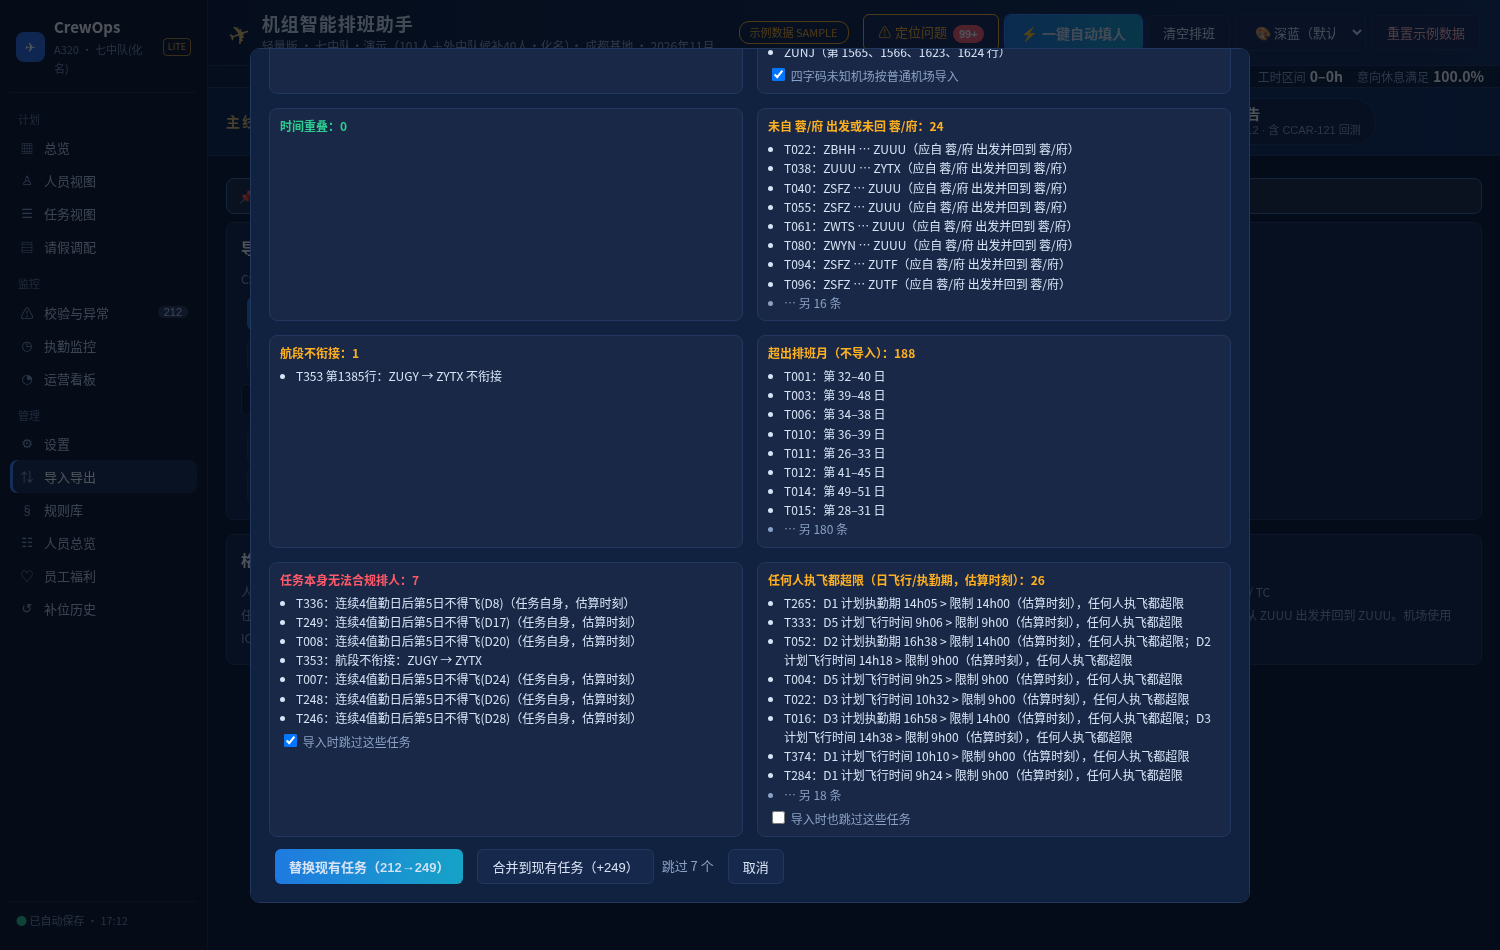
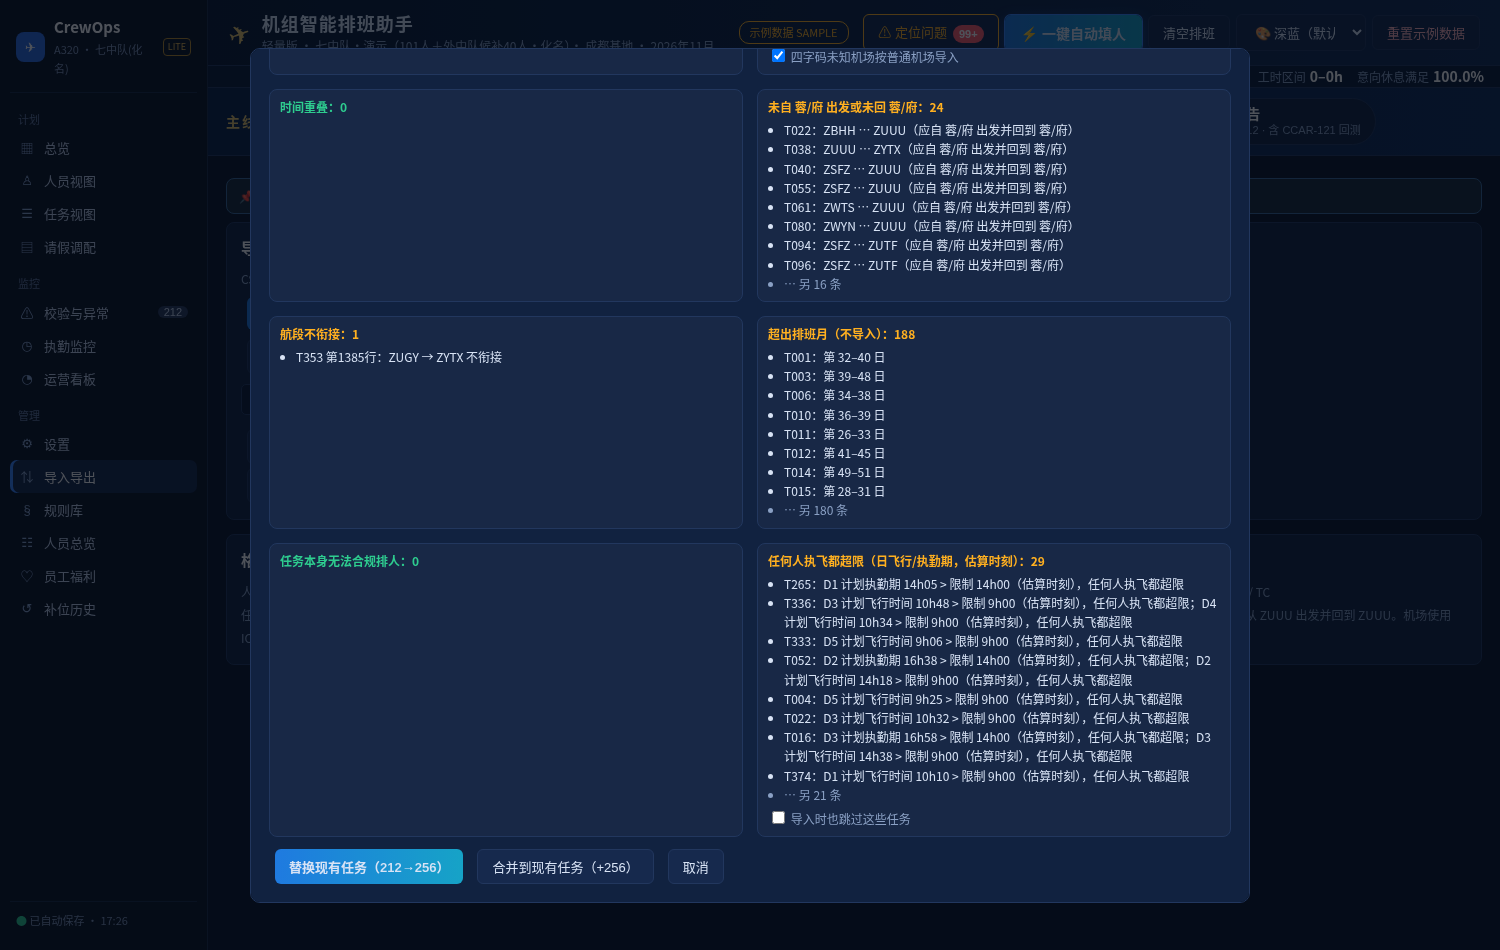
121.495(b)/EU.COM 3.6.10 2) 第5日规则按原文口径：仅第5日执飞航段违规，置位(随)回基地/跨日落地不算；航段不衔接改为提示；测试与回测报告补充；v=631

diff --git a/js/core.js b/js/core.js
@@ -1335,12 +1335,14 @@
     // 2) 任一飞行日：若前 4 个日历日均为飞行值勤或主备份，则违规
     const flags = dutyDayFlags(p, st, idx, ex, extra);
     const flew = Array(DAYS + 2).fill(false);
-    allPr.forEach(o => daysTouched(o, st).forEach(d => { if (d >= 1 && d <= DAYS) flew[d] = true; }));
+    // CCAR-121.495(b) / EU.COM 3.6.10 2)：值勤+主备份达 4 个连续日历日后，第 5 个日历日不得「执行任何飞行任务」。
+    // 第 5 日只看执飞航段（置位(随)回基地不是飞行任务；前日航班落地/放行跨入当日也不算当日执行飞行任务）
+    allPr.forEach(o => o.legs.forEach(l => { if (l.dh) return; const a = Math.floor(l.dep / DAY) + 1, b = Math.floor((l.arr - 1) / DAY) + 1; for (let d = a; d <= b; d++) if (d >= 1 && d <= DAYS) flew[d] = true; }));
     for (let d = 1; d <= DAYS; d++) {
       if (!flew[d]) continue;
       let prior4 = true;
       for (let k = 1; k <= 4; k++) { const dd = d - k; if (dd < 1 || !flags[dd]) { prior4 = false; break; } }
-      if (prior4) rs.push('连续4值勤日后第5日不得飞(D' + d + ')');
+      if (prior4) rs.push('连续4值勤日后第5日不得执飞(121.495(b),D' + d + ')');
     }
     // 3) 任意连续 7 日历日飞行值勤期 ≤60h；4) 月飞行值勤期 ≤210h
     const fdp = pilotFdpByDay(p, st, idx, ex, extra);
@@ -2943,12 +2945,12 @@
   // 任务固有问题：用“空白档案、全授权、最高级别”的虚拟人单独执行此任务，仍不合规的原因即任务自身问题
   function pairingIntrinsic(pr, st) {
     const out = [];
-    for (let i = 1; i < pr.legs.length; i++) if (pr.legs[i].from !== pr.legs[i - 1].to) out.push({ code: 'broken', msg: `航段不衔接：${pr.legs[i - 1].to} → ${pr.legs[i].from}` });
+    for (let i = 1; i < pr.legs.length; i++) if (pr.legs[i].from !== pr.legs[i - 1].to) out.push({ code: 'broken', soft: true, msg: `航段不衔接：${pr.legs[i - 1].to} → ${pr.legs[i].from}` });
     const BASE = ['ZUUU', 'ZUTF']; if (pr.legs.length && (!BASE.includes(pr.legs[0].from) || !BASE.includes(pr.legs[pr.legs.length - 1].to))) out.push({ code: 'base', msg: '未自 蓉/府 出发或未回到 蓉/府', soft: true });
     const unk = [...new Set(pr.legs.flatMap(l => [l.from, l.to]).filter(c => !AIRPORTS[c] && !(st.airports && st.airports[c] && !/\(导入\)$/.test(st.airports[c][0]))))]; if (unk.length) out.push({ code: 'airport', msg: '未知机场：' + unk.join('、'), soft: true });
     const ds = [...new Set(pr.legs.filter(l => !l.dh).map(l => Math.floor(l.dep / DAY)))].sort((a, b) => a - b); let run = ds.length ? 1 : 0, mx = run;
     for (let i = 1; i < ds.length; i++) { run = ds[i] === ds[i - 1] + 1 ? run + 1 : 1; mx = Math.max(mx, run); }
-    if (mx >= 5) out.push({ code: 'consec', msg: `任务内连续 ${mx} 个值勤日（连续4值勤日后第5日不得飞），任何人都无法合规` });
+    if (mx >= 5) out.push({ code: 'consec', msg: `任务内连续 ${mx} 个执飞日（121.495(b) 4 个连续值勤日后第 5 日不得执飞），任何人都无法合规` });
     for (const slot of ['C', 'F']) {
       const ghost = { id: '__ghost' + slot, name: '虚拟', rank: slot === 'C' ? 'TC' : 'F5', squad: '', fleet: pr.ac === 'C909' ? 'C909' : 'A320', auth: [...new Set(pr.legs.flatMap(l => [l.from, l.to]))], prefs: [], leave: [], health: defaultHealth() };
       const gs = Object.assign({}, st, { pilots: [ghost], pairings: [Object.assign({}, pr, { crew: { C: null, F: null, T: null } })], standby: null, training: null, fills: [] });

diff --git a/test/legimport.test.js b/test/legimport.test.js
@@ -27,11 +27,12 @@ let fail = 0; const chk = (n, ok, info) => { console.log('LEGIMP ' + n, ok ? 'OK
     chk('backtest fill runs', sm.full >= 248, `满员 ${sm.full}/${sm.total} hard ${sm.hard} ${Date.now() - t0}ms`);
     // 固有问题 + 空洞诊断 + 强制指派
     const ir = LI.intrinsicReport(r, C, st); const ib = ir.filter(x => x.blocking.length), iF = ir.filter(x => x.ftl.length);
-    chk('intrinsic blocking/ftl', ib.length >= 5 && iF.length >= 20, `blocking ${ib.length} ftl ${iF.length}`);
+    chk('intrinsic blocking/ftl (no day5-deadhead false positives)', ib.length === 0 && iF.length >= 20, `blocking ${ib.length} ftl ${iF.length}`);
     const cls = {}; const holes = []; s.pairings.forEach(pr => ['C', 'F', 'T'].forEach(k => { if (!pr.crew[k]) { const d = C.holeDiagnosis(s, pr, k); cls[d.cls] = (cls[d.cls] || 0) + 1; holes.push([pr, k, d]); } }));
     chk('every hole classified', holes.every(([, , d]) => ['数据问题', '真实运力不足', '可填'].includes(d.cls) && d.why), JSON.stringify(cls));
-    const dataHoles = holes.filter(([, , d]) => d.cls === '数据问题'); chk('data holes have intrinsic reason', dataHoles.length > 0 && dataHoles.every(([, , d]) => d.intrinsic.length || /无人具备|无此座位/.test(d.why)));
-    const [hp, hk] = dataHoles[0]; const any = C.candidates(s, hp, hk).find(c => C.slotRankOK(hk, c.p.rank) && !c.ok);
+    chk('6 long outstation pairings filled', ['T336', 'T249', 'T008', 'T007', 'T248', 'T246'].every(id => { const q = s.pairings.find(x => x.id === id); return q && q.crew.C && q.crew.F; }));
+    const dataHoles = holes.filter(([, , d]) => d.cls === '数据问题'); chk('data holes have intrinsic reason', dataHoles.every(([, , d]) => d.intrinsic.length || /无人具备|无此座位/.test(d.why)));
+    const anyHole = holes[0] || (() => { const q = s.pairings[5]; q.crew.T = null; return [q, 'T']; })(); const [hp, hk] = anyHole; const any = C.candidates(s, hp, hk).find(c => C.slotRankOK(hk, c.p.rank) && !c.ok && c.reasons.length);
     C.forceAssign(s, hp.id, hk, any.p.id, 'test'); chk('force assign records flag', hp.crew[hk] === any.p.id && hp.forced[hk].reasons.length > 0 && C.validate(s).some(v => v.type === '强制指派' && v.pairing === hp.id));
     const s4 = C.generateLiteSample(20261101); const skip = new Set(ib.map(x => x.id)); LI.apply(s4, r, 'replace', C, { skip }); chk('apply skip', s4.pairings.length === 256 - skip.size, s4.pairings.length); }
   console.log(fail ? 'LEGIMP FAIL ' + fail : 'LEGIMP ALL OK'); process.exit(fail ? 1 : 0);

diff --git a/lite/index.html b/lite/index.html
@@ -5,7 +5,7 @@
 <meta name="viewport" content="width=device-width, initial-scale=1">
 <title>Demo</title>
 <meta name="robots" content="noindex,nofollow,noarchive,nosnippet">
-<link rel="stylesheet" href="../css/style.css?v=630">
+<link rel="stylesheet" href="../css/style.css?v=631">
 </head>
 <body>
 <header class="topbar">
@@ -48,24 +48,24 @@
 <div id="toast" class="toast hidden"></div>
 <script src="../js/vendor/jszip.min.js"></script>
 <script src="../js/vendor/exceljs.min.js"></script>
-<script src="../js/xlsx-gantt.js?v=630"></script>
-<script src="../js/leg-import.js?v=630"></script>
+<script src="../js/xlsx-gantt.js?v=631"></script>
+<script src="../js/leg-import.js?v=631"></script>
 <script src="../js/sample-data.js"></script>
-<script src="../js/pinyin-initials.js?v=630"></script>
+<script src="../js/pinyin-initials.js?v=631"></script>
 <script src="../js/lite-roster.js"></script>
 <script src="../js/rules-config.js"></script>
 <script src="../js/core.js"></script>
 <script src="../js/charts.js"></script>
 <script>window.ROSTER_LITE = true;</script>
-<script src="../js/app/00-base.js?v=630"></script>
-<script src="../js/app/01-dashboard.js?v=630"></script>
-<script src="../js/app/02-gantt.js?v=630"></script>
-<script src="../js/app/03-editor.js?v=630"></script>
-<script src="../js/app/04-taskview.js?v=630"></script>
-<script src="../js/app/05-ops.js?v=630"></script>
-<script src="../js/app/06-roster.js?v=630"></script>
-<script src="../js/app/07-export.js?v=630"></script>
-<script src="../js/app/08-settings.js?v=630"></script>
-<script src="../js/app/09-main.js?v=630"></script>
+<script src="../js/app/00-base.js?v=631"></script>
+<script src="../js/app/01-dashboard.js?v=631"></script>
+<script src="../js/app/02-gantt.js?v=631"></script>
+<script src="../js/app/03-editor.js?v=631"></script>
+<script src="../js/app/04-taskview.js?v=631"></script>
+<script src="../js/app/05-ops.js?v=631"></script>
+<script src="../js/app/06-roster.js?v=631"></script>
+<script src="../js/app/07-export.js?v=631"></script>
+<script src="../js/app/08-settings.js?v=631"></script>
+<script src="../js/app/09-main.js?v=631"></script>
 </body>
 </html>

diff --git a/full.html b/full.html
@@ -5,7 +5,7 @@
 <meta name="viewport" content="width=device-width, initial-scale=1">
 <title>Demo</title>
 <meta name="robots" content="noindex,nofollow,noarchive,nosnippet">
-<link rel="stylesheet" href="css/style.css?v=630">
+<link rel="stylesheet" href="css/style.css?v=631">
 </head>
 <body>
 <header class="topbar">
@@ -48,23 +48,23 @@
 <div id="toast" class="toast hidden"></div>
 <script src="js/vendor/jszip.min.js"></script>
 <script src="js/vendor/exceljs.min.js"></script>
-<script src="js/xlsx-gantt.js?v=630"></script>
-<script src="js/leg-import.js?v=630"></script>
+<script src="js/xlsx-gantt.js?v=631"></script>
+<script src="js/leg-import.js?v=631"></script>
 <script src="js/sample-data.js"></script>
-<script src="js/pinyin-initials.js?v=630"></script>
+<script src="js/pinyin-initials.js?v=631"></script>
 <script src="js/lite-roster.js"></script>
 <script src="js/rules-config.js"></script>
 <script src="js/core.js"></script>
 <script src="js/charts.js"></script>
-<script src="js/app/00-base.js?v=630"></script>
-<script src="js/app/01-dashboard.js?v=630"></script>
-<script src="js/app/02-gantt.js?v=630"></script>
-<script src="js/app/03-editor.js?v=630"></script>
-<script src="js/app/04-taskview.js?v=630"></script>
-<script src="js/app/05-ops.js?v=630"></script>
-<script src="js/app/06-roster.js?v=630"></script>
-<script src="js/app/07-export.js?v=630"></script>
-<script src="js/app/08-settings.js?v=630"></script>
-<script src="js/app/09-main.js?v=630"></script>
+<script src="js/app/00-base.js?v=631"></script>
+<script src="js/app/01-dashboard.js?v=631"></script>
+<script src="js/app/02-gantt.js?v=631"></script>
+<script src="js/app/03-editor.js?v=631"></script>
+<script src="js/app/04-taskview.js?v=631"></script>
+<script src="js/app/05-ops.js?v=631"></script>
+<script src="js/app/06-roster.js?v=631"></script>
+<script src="js/app/07-export.js?v=631"></script>
+<script src="js/app/08-settings.js?v=631"></script>
+<script src="js/app/09-main.js?v=631"></script>
 </body>
 </html>

diff --git a/test/rules.test.js b/test/rules.test.js
@@ -53,4 +53,14 @@ chk('catalog senior disabled', /停用/.test(cat.rules.find(r => r.id === 'CR-12
 for (const seed of [20261101, 7]) { const s = C.generateLiteSample(seed); C.autoFill(s); const v = C.validate(s);
   chk('lite ' + seed + ' no rule hard', !v.some(x => x.level === 'hard' && /搭配|机组|FO|高高原|特殊/.test(x.type)));
   const kmgAuth = s.pilots.filter(p => (p.authDemo || []).includes('ZPPP')).length; chk('lite ' + seed + ' KMG demo quals labelled', kmgAuth > 0, kmgAuth); }
+// 121.495(b) 第 5 日：执飞违规；置位(随)回基地不违规（EU.COM 3.6.10 2）「执行任何飞行任务」）
+{ const s = C.generateLiteSample(20261101); const capt = s.pilots.find(x => C.isCaptClass(x.rank)); const D = C.DAY;
+  const leg = (d, f, t, h, dh) => ({ d: 1, flt: 'EU' + d + f, from: f, to: t, dep: (d - 1) * D + h * 60, arr: (d - 1) * D + h * 60 + 120, ac: 'A320', dh });
+  s.pairings = []; s.standby = null; s.training = null;
+  for (let d = 1; d <= 4; d++) s.pairings.push({ id: 'Q' + d, start: d, ndays: 1, ac: 'A320', legs: [leg(d, 'ZUUU', 'ZGGG', 9), leg(d, 'ZGGG', 'ZUUU', 13)], crew: { C: capt.id, F: null, T: null } });
+  const mk5 = dh => ({ id: 'Q5', start: 5, ndays: 1, ac: 'A320', legs: [leg(5, 'ZUUU', 'ZBHH', 9, dh), leg(5, 'ZBHH', 'ZUUU', 13, dh)], crew: { C: null, F: null, T: null } });
+  const ix = C.buildIndex(s);
+  const op = C.ftlCheckPerson(capt, mk5(false), s, ix, {}), dh = C.ftlCheckPerson(capt, mk5(true), s, ix, {});
+  chk('121.495b day5 operating flagged', op.some(x => x.includes('第5日')), op.join('|'));
+  chk('121.495b day5 deadhead allowed', !dh.some(x => x.includes('第5日')), dh.join('|')); }
 console.log(fail ? 'RULES FAIL ' + fail : 'RULES ALL OK'); process.exitCode = fail ? 1 : 0;

diff --git a/test/lite.test.js b/test/lite.test.js
@@ -35,7 +35,10 @@ for (const seed of [20261101, 7, 42]) {
   const b5 = Object.entries(bl).filter(([k]) => +k >= 5).reduce((a, [, v]) => a + v, 0) / bt;
   chk(seed + ' block mode 3', mode === 3, JSON.stringify(bl));
   chk(seed + ' rest3-4 >=40% & > rest2', g34 >= 0.4 && g34 > g2, (100 * g34).toFixed(0) + '% vs ' + (100 * g2).toFixed(0) + '%');
-  chk(seed + ' rest0-1 <=10%, no 5+ blocks', g01 <= 0.1 && b5 === 0, (100 * g01).toFixed(0) + '%');
+  // 121.495(b)：4 个连续值勤日后第 5 日不得执飞 → 只要求无「第5日执飞」；第 5 日置位(随)回基地允许
+  const ix5 = C.buildIndex(st); let op5 = 0; const D5 = []; st.pilots.forEach(p => { const fl = {}; (ix5.sched[p.id] || []).forEach(o => o.legs.forEach(l => { if (!l.dh) fl[Math.floor(l.dep / C.DAY) + 1] = 1; }));
+    for (let d = 5; d <= C.DAYS; d++) if (fl[d] && [1, 2, 3, 4].every(k => ds[p.id][d - k] === 'D' || ds[p.id][d - k] === 'S')) { op5++; D5.push(p.id + '@' + d); } });
+  chk(seed + ' rest0-1 <=10%, no day-5 operating', g01 <= 0.1 && op5 === 0, (100 * g01).toFixed(0) + '% 5+blocks ' + (100 * b5).toFixed(1) + '% op5 ' + op5 + ' ' + D5.slice(0, 3));
   const tr = st.pilots.map(p => ((st.training || {})[p.id] || []).length);
 
   // 值勤连续性：日内衔接；任务起讫成都；日间要么同站过夜要么两端均在成都

diff --git a/test/holediag.test.py b/test/holediag.test.py
@@ -14,19 +14,22 @@ with sync_playwright() as p:
     pg.goto(URL); pg.evaluate("() => localStorage.clear()"); pg.reload(); pg.wait_for_timeout(4000)
     pg.evaluate("() => document.querySelector('button[data-tab=\"data\"]').click()"); pg.wait_for_timeout(600)
     pg.set_input_files('#imXlsx', F); pg.wait_for_selector('#imRep', timeout=30000); pg.check('#imAllow'); pg.wait_for_timeout(2500)
-    txt = pg.inner_text('#modalBox'); chk('import shows intrinsic', '任务本身无法合规排人：7' in txt and '任何人执飞都超限' in txt, txt[txt.find('任务本身'):][:80])
-    chk('skip default on', '跳过 7 个' in txt)
+    txt = pg.inner_text('#modalBox'); chk('import shows intrinsic', '任务本身无法合规排人：0' in txt and '估算时刻）：29' in txt, txt[txt.find('任务本身'):][:80])
     pg.evaluate("() => document.querySelector('.modal-box').scrollTop = 99999"); 
     if SHOT: pg.screenshot(path=SHOT[0])
-    pg.uncheck('#imSkipB'); pg.wait_for_timeout(2000); pg.click('#imRep'); pg.wait_for_timeout(800)
+    pg.click('#imRep'); pg.wait_for_timeout(800)
     n = pg.evaluate("() => window.__roster().st.pairings.length"); chk('imported all', n == 256, n)
     pg.click('#imAuto'); pg.wait_for_function("() => window.__roster().st.pairings.filter(p => p.crew.C && p.crew.F && p.crew.T).length > 200 && document.querySelector('#progress').classList.contains('hidden')", timeout=120000); pg.wait_for_timeout(1500)
+    # 人为构造一个真正的数据问题：5 个连续执飞日（121.495(b) 第 5 日执飞），任何人都无法合规
+    pg.evaluate("""() => { const R = window.__roster(), C = R.C, D = C.DAY; const legs = [];
+      for (let d = 0; d < 5; d++) { legs.push({ d: d + 1, flt: 'EU90' + d, from: 'ZUUU', to: 'ZGGG', dep: (9 + d) * D + 540, arr: (9 + d) * D + 680, ac: 'A320' }, { d: d + 1, flt: 'EU91' + d, from: 'ZGGG', to: 'ZUUU', dep: (9 + d) * D + 740, arr: (9 + d) * D + 880, ac: 'A320' }); }
+      R.st.pairings.push({ id: 'PRBAD5', start: 10, ndays: 5, ac: 'A320', legs, crew: { C: null, F: null, T: null } }); }""")
     pg.evaluate("() => document.querySelector('button[data-tab=\"report\"]').click()"); pg.wait_for_timeout(2500)
     rt = pg.inner_text('#main'); chk('report hole diagnosis', '空洞诊断' in rt and '数据问题' in rt)
-    pid = pg.evaluate("() => { const st = window.__roster().st; const C = window.__roster().C; const p = st.pairings.find(p => !p.crew.C && C.holeDiagnosis(st, p, 'C').cls === '数据问题'); return p && p.id; }")
+    pid = pg.evaluate("() => { const st = window.__roster().st; const C = window.__roster().C; return 'PRBAD5'; }")
     pg.evaluate("id => window.__roster().openDrawer(id, 'edit')", pid); pg.wait_for_timeout(1500)
     d = pg.evaluate("() => [...document.querySelectorAll('.holediag')].map(e => e.innerText).join(' || ')")
-    chk('drawer diagnosis', '数据问题' in d and '人' in d, d[:160])
+    chk('drawer diagnosis', '数据问题' in d and '第 5 日不得执飞' in d, d[:160])
     if len(SHOT) > 1: pg.screenshot(path=SHOT[1])
     pg.evaluate("() => document.querySelector('.forceBtn[data-force^=\"C:\"]').click()"); pg.wait_for_timeout(1200)
     chk('force tag shown', pg.evaluate("() => !!document.querySelector('.forcetag')"))

diff --git a/回测/121回测报告.md b/回测/121回测报告.md
@@ -149,3 +149,8 @@
 
 ## 6. 免责声明
 本报告基于公开规章文本的人工核对，数字均与官网原文/表格图片逐格对照；离线粗估（#12–#15）为演示数据近似测算，非合规结论。“更严于法规”不等于“合规”，实际排班以公司批准的手册与局方运行规范为准。
+
+### 补充（2026-10-22）：121.495(b)「第 5 个日历日」条款的适用口径
+- 原文（CCAR-121 交通运输部令 2024 年第 7 号 第121.495条(b)）：“…如机组成员飞行值勤期和主备份已达到4个连续日历日，不得安排机组成员在第5个日历日执行任何飞行任务，但是前续航班导致的备降情况除外。” 公司运行手册 EU.COM 3.6.10 2) 采用同文。
+- 本 App 口径（已修正）：第 5 日只在当日有**执飞**航段时判违规；置位(随)回基地、前日航班落地/放行跨入当日，不视为“执行飞行任务”。前 4 日仍按飞行值勤+主备份所触及的日历日计。
+- 修正前把第 5 日的置位回程也判为违规，导致 9 月回测 6 个外站驻点任务（4 天执飞 + 第 5 天随机回）无人可排。
